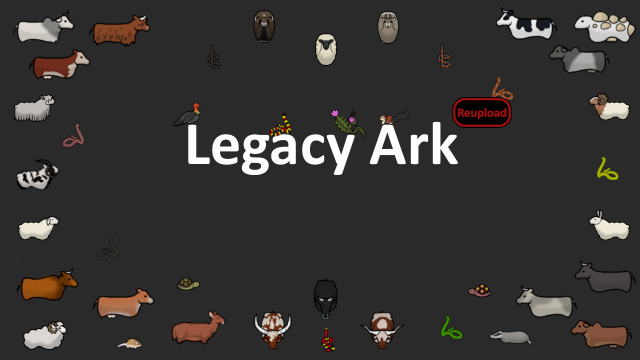
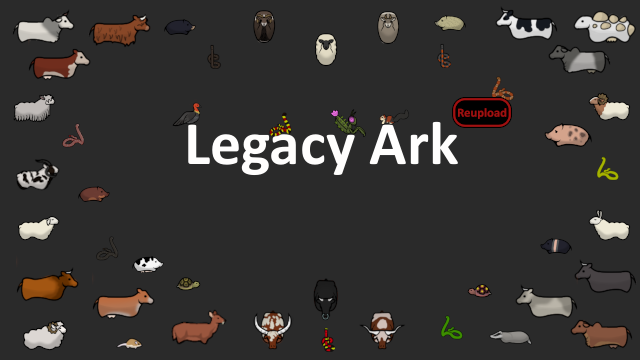
All sheep now drop sheepskin if the [url=https://steamcommunity.com/sharedfiles/filedetails/?id=2746519764]Sheepskin[/url] mod is loaded

diff --git a/README.md b/README.md
@@ -7,7 +7,7 @@ For a full description see the  https://rimworld-bestiary.fandom.com/wiki/Legacy
 
 Deep in rimspace, a science vessel was recently discovered. An ark vault containing thousands upon thousands of tissue samples from earth that was. Now that glitterworld bioengineers have gotten their hands on them, old earth species are once again seeding far off words.
 
-So far they have reanimated a lot of cattle and sheep, more sheep are yet to come. A badger and a gerbil has also been sighted as well as some sort of bird. These animals can be bought of traders although some has spread to the wild in some areas. Snakes and some sort of prickly mantis seem to be showing up as well.
+So far they have reanimated a lot of cattle and sheep and pigs, more are yet to come. A badger and a gerbil has also been sighted as well as some sort of bird. These animals can be bought of traders although some has spread to the wild in some areas. Snakes and some sort of prickly mantis seem to be showing up as well.
 
 Snakes venom glands can be harvested if using https://steamcommunity.com/sharedfiles/filedetails/?id=1430501911]Infectious Creatures
 
